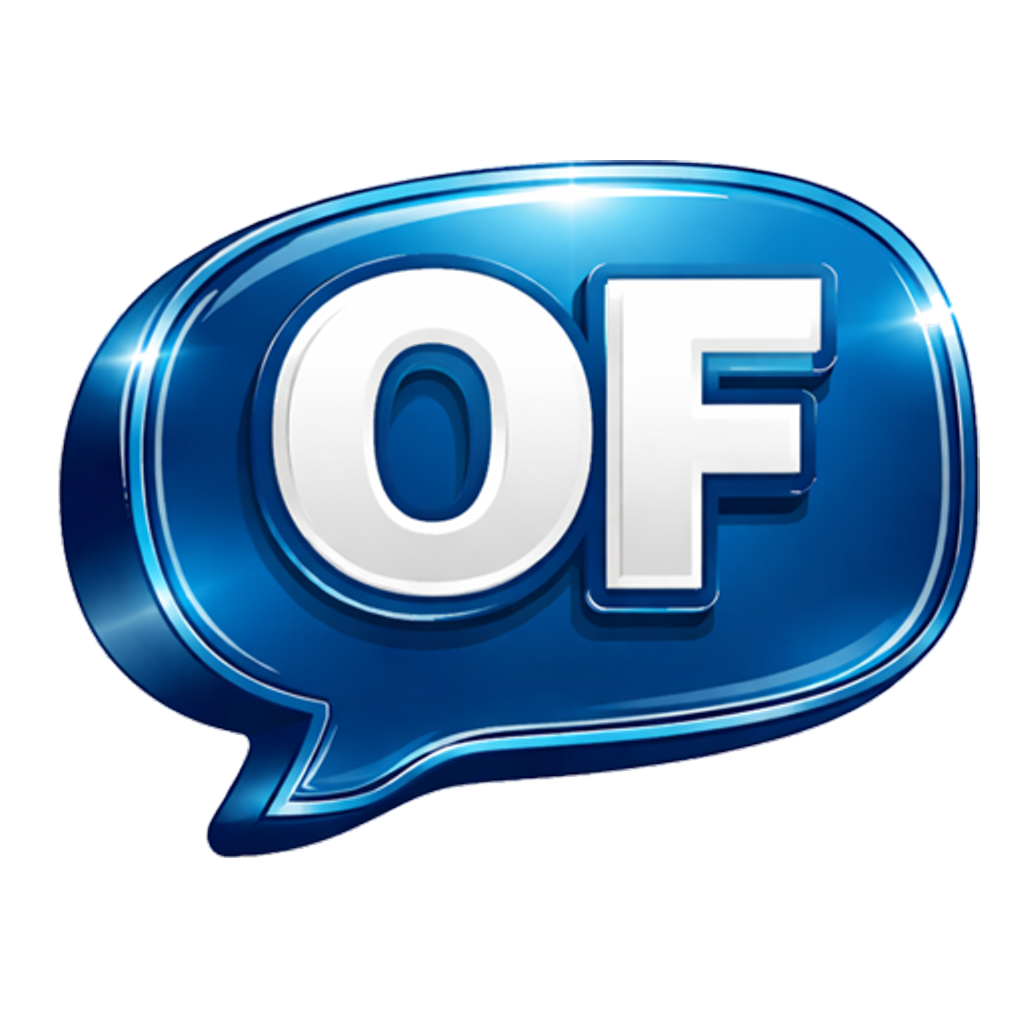
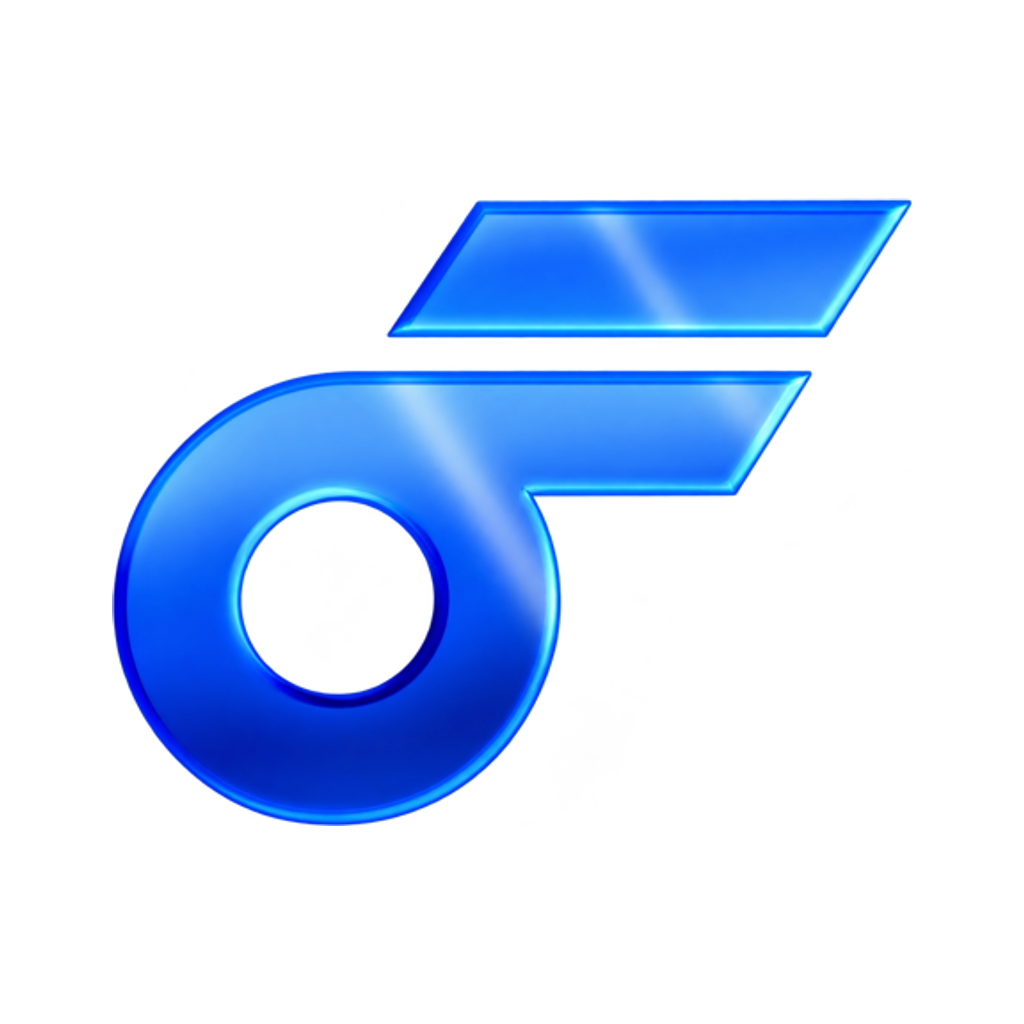
feat: nuevo logotipo de OldFace (app, icono y pantalla de arranque)

diff --git a/frontend/src/pages/LoginPage.jsx b/frontend/src/pages/LoginPage.jsx
@@ -199,6 +199,7 @@ export default function LoginPage() {
             <img src="/logo-oldface.png" alt="OldFace" className="w-28 h-28 object-contain drop-shadow-2xl"
                  onError={(e) => { e.target.style.display='none'; }} />
           </div>
+          <h1 style={{ fontSize: 30, fontWeight: 900, color: '#1d4ed8', margin: 0, letterSpacing: '-0.02em' }}>OldFace</h1>
           <p className="text-oldface-500 text-sm mt-1 font-medium">{tr('Conecta con quien más quieres')}</p>
         </div>
 

diff --git a/frontend/src/components/PopupMenu.jsx b/frontend/src/components/PopupMenu.jsx
@@ -188,7 +188,7 @@ export default function PopupMenu({ onClose, onGroups }) {
             {/* Logo */}
             <div
               className="flex items-center justify-center overflow-hidden"
-              style={{ width: 38, height: 38, borderRadius: 12, backgroundColor: BRAND }}
+              style={{ width: 38, height: 38, borderRadius: 12, backgroundColor: 'white', border: '1px solid #e2e8f0' }}
             >
               <img
                 src="/logo-oldface.png"
